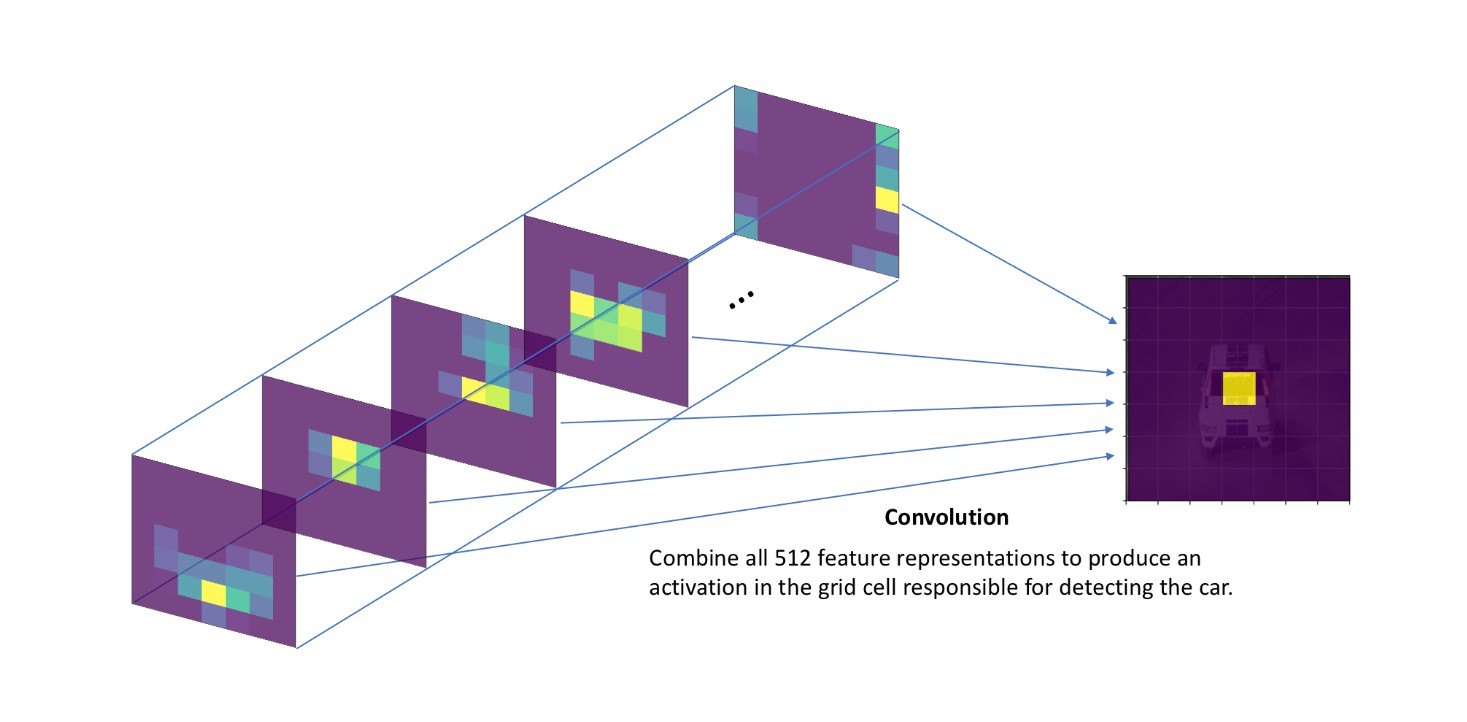
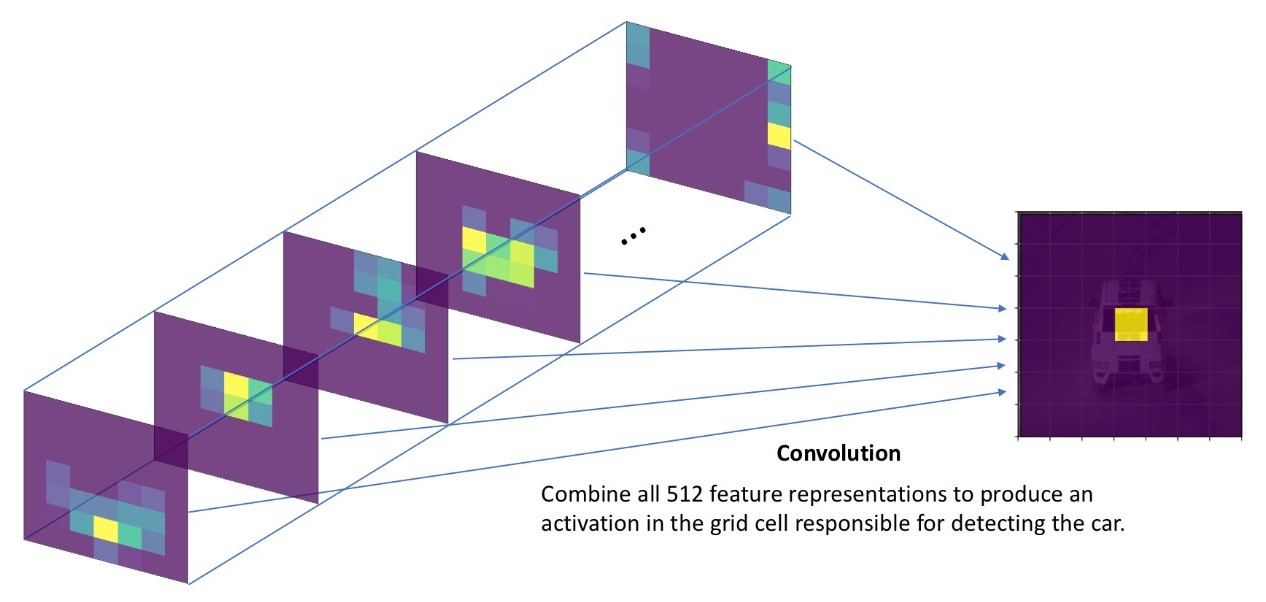
Fixed abstract, conclusion and Kaggle table

diff --git a/docs/report/sections/conclusion.tex b/docs/report/sections/conclusion.tex
@@ -2,10 +2,7 @@
 \section{CONCLUSIONS}
 \label{sec:conclusions}
 
-The objective of the project was accurately recognizing handwritten cursive Kuzushiji characters in ancient historical documents, which has been accomplished via a region-based object recognition approach. The proposed model featured a CenterNet like detector followed by a CNN classifier, and achieved satisfying performances, with an overall Kaggle score of $0.780$ on the public test set.\\
-On the other hand, our tests with Yolo v2, didn't produce a usable model.\\
-Looking at the results in table \ref{tab:finaltests} we can conclude that data augmentation did not significantly impacted the classifier performance. On the contrary, the \textit{tiling} approach, positively influenced the prediction score of both our detectors and the Kaggle model. \\
+The objective of the project was accurately recognizing handwritten cursive Kuzushiji characters in ancient historical documents, which has been accomplished via a region-based object recognition approach. The proposed model featured a CenterNet like detector followed by a CNN classifier, and achieved satisfying performances, with an overall Kaggle score of $0.797$ on the public test set.\\
+On the other hand, our tests with Yolo v2, did not produce a usable model. Looking at the results in table \ref{tab:finaltests} we can conclude that data augmentation did not significantly impacted the performance of the classifier, which may be due to too aggressive parameters. On the contrary instead, the \textit{tiling} approach, positively influenced the prediction score of both our detectors and the Kaggle model. \\
 
-Many improvements could have been tested.\\ For example, a more tailored tiling and preprocessing would have probably resulted in a better prediction accuracy. Furthermore it could have been worth to try different encoding and decoding architectures for the detection model, like VGG and Hourglass, which are also referenced in the CenterNet paper. \\
-Using a totally different approach, a Mask R-CNN could probably be used to detect the characters, since it can generate a pixel-wise mask that seems suitable to recognize characters shapes.\\
-The usage of a recurrent model to add context information on each character classification, could have resulted in an improvement as well. Indeed, like reported on the dataset description of the competition, some Kuzushiji characters are very similar, differing just for small details, and their meaning can be more easily inferred from context than by looking at the single character itself.
+Many improvements could have been tested.\\ For example, a more tailored tiling and preprocessing would have probably resulted in a better prediction accuracy. Furthermore it could have been worth to try different encoding and decoding architectures for the detection model, like VGG and Hourglass, which are also referenced in the CenterNet paper. Using a totally different approach, a Mask R-CNN could probably be used to detect the characters, since it can generate a pixel-wise mask that seems suitable to recognize characters shapes. The usage of a recurrent model to add context information on each character classification, could have resulted in an improvement as well. Indeed, like reported on the dataset description of the competition, some Kuzushiji characters are very similar, differing just for small details, and their meaning can be more easily inferred from context than by looking at the single character itself.

diff --git a/docs/report/sections/abstract.tex b/docs/report/sections/abstract.tex
@@ -1,6 +1,6 @@
 % !TeX spellcheck = en_US
 \begin{abstract}
-	Automatic translation, natural language processing and other language related tasks are among the most challenging problems in computational linguistics. The ability of a machine to understand written and spoken language led to notable improvements in tasks such as documents digitization, speech synthesis and text mining, but text recognition in handwritten historical documents is still one of the most difficult task to deal with. However, the further improvements on deep neural networks for object recognition have definitely amended the performance in this area of research. Convolutional Neural Networks (CNN) and Recurrent Neural Networks (RCNN) in particular have been successfully applied to linguistic and vision tasks. Their ability to learn complex, non linear functions and the tendency towards layer specialization have been proven ideal to deal with the overwhelming number of features concealed in images and the complexity of languages. In this report, we show a deep-learning-based solution to the task proposed in the Kaggle competition “Kuzushiji Recognition”. The goal of the competition is translating ancient handwritten Kuzushiji pages into modern Japanese. More precisely, a great number of different possible characters must be automatically detected and classified. Our approach is focused on a deep neural network called CenterNet to detect characters, which are then translated into modern Japanese using a simple CNN. It resulted in [DETECTION ACCURACY] accuracy of detection and [CLASSIFICATION ACCURACY] accuracy of classification, approximately in line with the state-of-the-art.
+	Automatic translation, natural language processing and other language related tasks are among the most challenging problems in computational linguistics. The ability of a machine to understand written and spoken language led to notable improvements in tasks such as documents digitization, speech synthesis and text mining, but text recognition in handwritten historical documents is still one of the most difficult task to deal with. However, the further improvements on deep neural networks for object recognition have definitely amended the performance in this area of research. Convolutional Neural Networks (CNN) and Recurrent Neural Networks (RCNN) in particular have been successfully applied to linguistic and vision tasks. Their ability to learn complex, non linear functions and the tendency towards layer specialization have been proven ideal to deal with the overwhelming number of features concealed in images and the complexity of languages. In this report, we show a deep-learning-based solution to the task proposed in the Kaggle competition “Kuzushiji Recognition”. The goal of the competition is translating ancient cursive handwritten Kuzushiji pages into modern Japanese. More precisely, a great number of different possible characters must be automatically detected and classified. Our approach is focused on a region-based model which uses a CenterNet like neural network to detect characters and then translates them into modern Japanese using a simple CNN. It results in 0.7658 IoU score in detection and 0.9413 accuracy of classification, approximately in line with the state-of-the-art, which brought to a 0.797 modified $F_1$ score for the competition.
 \end{abstract}
 
 

diff --git a/docs/report/sections/introduction.tex b/docs/report/sections/introduction.tex
@@ -2,7 +2,7 @@
 \section{INTRODUCTION}
 \label{sec:intro}
 
-Kuzushiji is a Japanese cursive writing style which has been used in Japan for over a thousand years, beginning in the 8th century. Over 3 millions books, on a diverse array of topics such as literature, science, mathematics and cooking are preserved today. However, the standardization of Japanese textbooks known as the “Elementary School Order” in 1900, removed Kuzushiji from regular school curriculum, as modern Japanese print became popular. As a result, most Japanese natives today cannot read books written or printed just 120 years ago, and today there are very few fluent readers of Kuzushiji (only 0.01\% of modern Japanese natives) \cite{aboutkuz}. The objective of the project is building an object detection system able to transcribe pages of handwritten documents written in ancient Kuzushiji into contemporary Japanese characters, like shown in fig \ref{fig:objective}. Due to the lack of available human resources, there has been a great deal of interest in using machine learning to automatically recognize these historical texts and transcribe them into modern Japanese characters. Nevertheless, several challenges in Kuzushiji recognition have made the performance of existing systems extremely poor. Our deep-learning-based approach achieved notable results, with [DETECTION ACCURACY] accuracy of detection and [CLASSIFICATION ACCURACY] accuracy of classification.
+Kuzushiji is a Japanese cursive writing style which has been used in Japan for over a thousand years, beginning in the 8th century. Over 3 millions books, on a diverse array of topics such as literature, science, mathematics and cooking are preserved today. However, the standardization of Japanese textbooks known as the “Elementary School Order” in 1900, removed Kuzushiji from regular school curriculum, as modern Japanese print became popular. As a result, most Japanese natives today cannot read books written or printed just 120 years ago, and today there are very few fluent readers of Kuzushiji (only 0.01\% of modern Japanese natives) \cite{aboutkuz}. The objective of the project, inspired by a Kaggle competition promoted by the Center for Open Data in the Humanities \cite{competition}, is building an object detection system able to transcribe pages of documents handwritten in ancient Kuzushiji into contemporary Japanese characters, like shown in fig \ref{fig:objective}. Due to the lack of available human resources, there has been a great deal of interest in using machine learning to automatically recognize these historical texts and transcribe them into modern Japanese characters. Nevertheless, several challenges in Kuzushiji recognition have made the performance of existing systems extremely poor. Our deep-learning-based approach achieved notable results, with 0.7658 IoU score in detection and 0.9413 accuracy of classification, which brought to a 0.797 modified $F_1$ score for the competition.
 
 \begin{figure}
 	\centering

diff --git a/docs/report/sections/experiments.tex b/docs/report/sections/experiments.tex
@@ -12,10 +12,10 @@ Submissions to the competition are evaluated on a modified version of the F1 sco
 	\begin{tabular}{llccc}
 		\rowcolor[HTML]{EFEFEF} 
 		\textbf{Detector} & \textbf{Classifier} & \textbf{Tiling} & \textbf{Augmentation} & \textbf{Kaggle score} \\
-		ResNet34          & Preactivated        & Yes             & Yes                   & \textbf{0.780}                 \\
+		ResNet34          & Preactivated        & Yes             & Yes                   & 0.780                 \\
 		ResNet34          & Preactivated        & No              & Yes                   & 0.606                 \\
-		ResNet34          & Preactivated        & Yes             & No                    &                       \\
-		ResNet50          & Preactivated        & Yes             & Yes                   &                       \\
+		ResNet34          & Preactivated        & Yes             & No                    & \textbf{0.797}                      \\
+		ResNet50          & Preactivated        & Yes             & Yes                   & 0.723                      \\
 		ResNet50          & Preactivated        & No              & Yes                   & 0.491                 \\
 		Kaggle            & Kaggle              & Yes             & No                   &  0.772                     \\
 		Kaggle            & Kaggle              & No              & No                   & 0.553                     

diff --git a/networks/classes/centernet/pipeline/Detector.py b/networks/classes/centernet/pipeline/Detector.py
@@ -107,7 +107,7 @@ class Detector:
         self.__logs['execution'].info('Showing examples of tile predictions...')
         _, avg_iou = self.__bb_handler.get_train_tiled_bboxes(xy_eval,
                                                               model=self.__model,
-                                                              n_tiles=2,
+                                                              n_tiles=6,
                                                               show=False)
         self.__logs['execution'].info('The average IoU score using tile model is: {}'.format(avg_iou))
 
@@ -163,7 +163,7 @@ class Detector:
         self.__logs['execution'].info('Converting test predictions into bounding boxes...')
         return self.__bb_handler.get_test_tiled_bboxes(self.__test_list,
                                                        model=self.__model,
-                                                       n_tiles=2,
+                                                       n_tiles=6,
                                                        show=False)
 
     def __generate_standard_predictions(self, test_set) -> Dict[str, np.array]:

diff --git a/networks/classes/centernet/datasets/PreprocessingDataset.py b/networks/classes/centernet/datasets/PreprocessingDataset.py
@@ -47,7 +47,7 @@ class PreprocessingDataset:
     def __get_dataset_labels(self) -> List[float]:
         return [img_data[1] for img_data in self.__train_image_avg_char_area_ratios]
 
-    def __set_class_encoding(self, df_train, show_frequency=False):
+    def __set_class_encoding(self, df_train, show_frequency=True):
         # Initialize an empty dictionary of <unicode> -> <class frequency>
         class_frequencies = {}
 
@@ -80,13 +80,10 @@ class PreprocessingDataset:
 
         if show_frequency:
             cat, frequency = zip(*dict_frequencies.items())
-            plt.hist(frequency, bins='auto', color='red')
-            plt.xlim(min(cat), max(cat))
-            print(24685)
-            plt.ylim(min(frequency), max(frequency))
+            plt.plot(cat, frequency, color='red')
             plt.title('Class frequencies', fontsize=18)
-            plt.xlabel('Class', fontsize=14)
-            plt.ylabel('Frequency', fontsize=14)
+            plt.xlabel('Class (mapped to integer)', fontsize=14)
+            plt.ylabel('Absolute class frequency', fontsize=14)
             plt.show()
             plt.clf()
 

diff --git a/docs/report/sections/method.tex b/docs/report/sections/method.tex
@@ -18,7 +18,7 @@ An example of accurate detection is shown in figure \ref{fig:detection-example}.
 
 \begin{figure}
 	\centering
-	\includegraphics[width=0.9\columnwidth]{detection/std_1.png}
+	\includegraphics[width=0.9\columnwidth]{detection/std.png}
 	\caption{Example of detection and corresponding heatmap on a single image.}
 	\label{fig:detection-example}
 \end{figure}
@@ -225,7 +225,7 @@ We tested some simple variations using different types of residual blocks, and t
 
 \begin{figure}
 	\centering
-	\includegraphics[width=0.9\columnwidth]{classification/std_3.png}
+	\includegraphics[width=0.9\columnwidth]{classification/std.png}
 	\caption{Example of classification after detection on a single image.}
 	\label{fig:classification-example}
 \end{figure}

diff --git a/__centernet__.py b/__centernet__.py
@@ -82,7 +82,7 @@ def main():
     }
 
     # Run the pipeline
-    pipeline.run_pipeline(operations=common_operations['classify'],
+    pipeline.run_pipeline(operations=common_operations['preprocess'],
                           params=centernet_params,
                           experiment_path=os.path.join(base_experiments_path, run_id))
 
